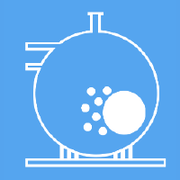
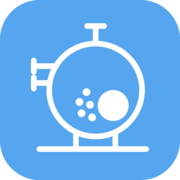
Uso en el celular: instalable, fotos desde la cámara y mejoras táctiles
- Manifest e íconos nuevos: se puede agregar a la pantalla de inicio y abre a pantalla completa.
- Campos de 16px en celular (Safari en iPhone ya no hace zoom al tocarlos).
- Botones y enlaces con tamaño de dedo; la ficha del cliente ya no se desborda de costado.
- "Sacar foto" en la ficha; las fotos se achican antes de subir y se suben de a una
  (Vercel no acepta más de 4.5 MB por pedido).
- Los textos largos crecen solos también en Safari.
- En desarrollo se puede entrar desde el celular por wifi (IPs locales habilitadas).

diff --git a/components/subir-archivos.tsx b/components/subir-archivos.tsx
@@ -1,41 +1,100 @@
 "use client";
 
-import { Upload } from "lucide-react";
-import { useActionState, useRef } from "react";
+import { Camera, Upload } from "lucide-react";
+import { useState, useTransition, type ChangeEvent } from "react";
 import type { EstadoFormulario } from "@/app/acciones";
+
+const LADO_MAXIMO = 2400;
+const LIMITE = 4 * 1024 * 1024;
+
+/**
+ * Las fotos del celular pesan 3–8 MB: se pasan a JPEG de hasta 2400 px de lado (quedan en ~0.5–1 MB,
+ * de sobra para ver una caldera). Si el navegador no puede leer la imagen, se sube el original.
+ */
+async function prepararArchivo(archivo: File): Promise<File> {
+  if (!/^image\/(jpeg|png|webp|heic|heif)$/.test(archivo.type) || archivo.size < 1.5 * 1024 * 1024) return archivo;
+  try {
+    const imagen = await createImageBitmap(archivo, { imageOrientation: "from-image" });
+    const escala = Math.min(1, LADO_MAXIMO / Math.max(imagen.width, imagen.height));
+    const lienzo = document.createElement("canvas");
+    lienzo.width = Math.round(imagen.width * escala);
+    lienzo.height = Math.round(imagen.height * escala);
+    lienzo.getContext("2d")?.drawImage(imagen, 0, 0, lienzo.width, lienzo.height);
+    imagen.close();
+    const blob = await new Promise<Blob | null>((listo) => lienzo.toBlob(listo, "image/jpeg", 0.85));
+    if (!blob || blob.size >= archivo.size) return archivo;
+    return new File([blob], `${archivo.name.replace(/\.[^.]+$/, "")}.jpg`, { type: "image/jpeg" });
+  } catch {
+    return archivo;
+  }
+}
 
 export function SubirArchivos({
   accion,
 }: {
   accion: (estado: EstadoFormulario, formData: FormData) => Promise<EstadoFormulario>;
 }) {
-  const formulario = useRef<HTMLFormElement>(null);
-  const [estado, enviar, enviando] = useActionState(async (anterior: EstadoFormulario, datos: FormData) => {
-    const resultado = await accion(anterior, datos);
-    if (!resultado?.error) formulario.current?.reset();
-    return resultado;
-  }, undefined);
+  const [subiendo, iniciar] = useTransition();
+  const [progreso, setProgreso] = useState<string | null>(null);
+  const [error, setError] = useState<string | null>(null);
+
+  function subir(evento: ChangeEvent<HTMLInputElement>) {
+    const archivos = Array.from(evento.target.files ?? []);
+    evento.target.value = "";
+    if (!archivos.length) return;
+    setError(null);
+    iniciar(async () => {
+      const errores: string[] = [];
+      // De a uno: Vercel no acepta más de 4.5 MB por pedido.
+      for (const [i, original] of archivos.entries()) {
+        setProgreso(archivos.length > 1 ? `Subiendo ${i + 1} de ${archivos.length}…` : "Subiendo…");
+        const archivo = await prepararArchivo(original);
+        if (archivo.size > LIMITE) {
+          errores.push(`“${original.name}” pesa más de 4 MB`);
+          continue;
+        }
+        const datos = new FormData();
+        datos.append("archivos", archivo);
+        try {
+          const resultado = await accion(undefined, datos);
+          if (resultado?.error) errores.push(resultado.error);
+        } catch {
+          errores.push(`No se pudo subir “${original.name}”. Revisá la conexión.`);
+        }
+      }
+      setProgreso(null);
+      setError(errores.length ? errores.join(" · ") : null);
+    });
+  }
 
   return (
-    <form ref={formulario} action={enviar} className="space-y-2">
-      <label className="btn-secundario cursor-pointer">
-        <Upload className="size-4" />
-        {enviando ? "Subiendo…" : "Subir archivos"}
-        <input
-          type="file"
-          name="archivos"
-          multiple
-          className="sr-only"
-          disabled={enviando}
-          onChange={(e) => e.currentTarget.form?.requestSubmit()}
-        />
-      </label>
-      <p className="text-xs text-apagado">PDF, fotos, planillas… hasta 4 MB cada uno.</p>
-      {estado?.error && (
+    <div className="space-y-2">
+      <div className="flex flex-wrap gap-2">
+        <label className={`btn-secundario cursor-pointer ${subiendo ? "pointer-events-none opacity-50" : ""}`}>
+          <Upload className="size-4" />
+          {progreso ?? "Subir archivos"}
+          <input type="file" multiple className="sr-only" disabled={subiendo} onChange={subir} />
+        </label>
+        {/* En el celular abre la cámara directo (para fotos de la instalación). */}
+        <label className={`btn-secundario cursor-pointer sm:hidden ${subiendo ? "pointer-events-none opacity-50" : ""}`}>
+          <Camera className="size-4" />
+          Sacar foto
+          <input
+            type="file"
+            accept="image/*"
+            capture="environment"
+            className="sr-only"
+            disabled={subiendo}
+            onChange={subir}
+          />
+        </label>
+      </div>
+      <p className="text-xs text-apagado">PDF, fotos, planillas… Las fotos se achican solas; el resto, hasta 4 MB.</p>
+      {error && (
         <p role="alert" className="text-sm text-peligro">
-          {estado.error}
+          {error}
         </p>
       )}
-    </form>
+    </div>
   );
 }

diff --git a/app/(app)/clientes/[id]/page.tsx b/app/(app)/clientes/[id]/page.tsx
@@ -49,7 +49,7 @@ export default async function PaginaCliente({ params, searchParams }: PageProps<
 
   return (
     <div className="space-y-6">
-      <Link href="/clientes" className="inline-flex items-center gap-1 text-sm text-apagado hover:text-tinta">
+      <Link href="/clientes" className="-my-2 inline-flex items-center gap-1 py-2 text-sm text-apagado hover:text-tinta">
         <ArrowLeft className="size-4" /> Clientes
       </Link>
 
@@ -65,8 +65,8 @@ export default async function PaginaCliente({ params, searchParams }: PageProps<
         </Link>
       </div>
 
-      <div className="grid gap-6 lg:grid-cols-[1fr_320px]">
-        <div className="space-y-6">
+      <div className="grid grid-cols-1 gap-6 lg:grid-cols-[minmax(0,1fr)_320px]">
+        <div className="min-w-0 space-y-6">
           <section className="tarjeta p-4 sm:p-5">
             <h2 className="mb-3 text-sm font-semibold">Nuevo documento</h2>
             <div className="grid gap-2 sm:grid-cols-3">
@@ -86,7 +86,7 @@ export default async function PaginaCliente({ params, searchParams }: PageProps<
                 href={`/clientes/${id}`}
                 role="tab"
                 aria-selected={!tipoFiltro}
-                className={`rounded-full px-3 py-1 text-sm ${!tipoFiltro ? "bg-tinta text-white" : "bg-white text-apagado ring-1 ring-borde hover:text-tinta"}`}
+                className={`rounded-full px-3 py-1.5 text-sm ${!tipoFiltro ? "bg-tinta text-white" : "bg-white text-apagado ring-1 ring-borde hover:text-tinta"}`}
               >
                 Todos ({todos.length})
               </Link>
@@ -96,7 +96,7 @@ export default async function PaginaCliente({ params, searchParams }: PageProps<
                   href={`/clientes/${id}?tipo=${t}`}
                   role="tab"
                   aria-selected={tipoFiltro === t}
-                  className={`rounded-full px-3 py-1 text-sm ${tipoFiltro === t ? "bg-tinta text-white" : "bg-white text-apagado ring-1 ring-borde hover:text-tinta"}`}
+                  className={`rounded-full px-3 py-1.5 text-sm ${tipoFiltro === t ? "bg-tinta text-white" : "bg-white text-apagado ring-1 ring-borde hover:text-tinta"}`}
                 >
                   {NOMBRE_TIPO_PLURAL[t]} ({cuenta(t)})
                 </Link>
@@ -181,14 +181,14 @@ export default async function PaginaCliente({ params, searchParams }: PageProps<
               <Paperclip className="size-4" /> Archivos
             </h2>
             {sueltos.length > 0 && (
-              <ul className="mb-4 space-y-2">
+              <ul className="mb-4 space-y-0.5">
                 {sueltos.map((a) => (
                   <li key={a.id} className="flex items-center gap-2 text-sm">
-                    <a href={`/api/archivos/${a.id}`} target="_blank" className="min-w-0 flex-1 truncate text-marca hover:underline">
+                    <a href={`/api/archivos/${a.id}`} target="_blank" className="min-w-0 flex-1 truncate py-2 text-marca hover:underline">
                       {a.nombre}
                     </a>
                     <span className="shrink-0 text-xs text-apagado">{tamanoLegible(a.tamano)}</span>
-                    <BotonConfirmar accion={eliminarArchivo.bind(null, a.id)} className="btn-fantasma px-1.5 text-xs" pregunta="¿Borrar?" confirmar="Borrar">
+                    <BotonConfirmar accion={eliminarArchivo.bind(null, a.id)} className="btn-fantasma px-3 sm:px-1.5 sm:text-xs" pregunta="¿Borrar?" confirmar="Borrar">
                       ✕<span className="sr-only">Borrar {a.nombre}</span>
                     </BotonConfirmar>
                   </li>

diff --git a/components/editor/campos.tsx b/components/editor/campos.tsx
@@ -1,7 +1,7 @@
 "use client";
 
 import { ArrowDown, ArrowUp, X } from "lucide-react";
-import { useId, useState, type ReactNode, type TextareaHTMLAttributes } from "react";
+import { useId, useLayoutEffect, useRef, useState, type ReactNode, type TextareaHTMLAttributes } from "react";
 
 export function Campo({
   rotulo,
@@ -26,9 +26,16 @@ export function Campo({
   );
 }
 
-/** Textarea que crece con el contenido. */
+/** Textarea que crece con el contenido (con CSS donde se puede; en Safari, ajustando el alto a mano). */
 export function AreaTexto({ className = "", ...props }: TextareaHTMLAttributes<HTMLTextAreaElement>) {
-  return <textarea rows={2} {...props} className={`campo field-sizing-content min-h-16 resize-y ${className}`} />;
+  const ref = useRef<HTMLTextAreaElement>(null);
+  useLayoutEffect(() => {
+    const area = ref.current;
+    if (!area || CSS.supports("field-sizing", "content")) return;
+    area.style.height = "auto";
+    area.style.height = `${area.scrollHeight + 2}px`;
+  }, [props.value]);
+  return <textarea ref={ref} rows={2} {...props} className={`campo field-sizing-content min-h-16 resize-y ${className}`} />;
 }
 
 const numero = new Intl.NumberFormat("es-AR", { maximumFractionDigits: 2 });
@@ -98,34 +105,34 @@ export function ControlesFila({
   etiqueta: string;
 }) {
   return (
-    <div className="flex shrink-0 flex-col gap-0.5">
+    <div className="-mr-1 flex shrink-0 flex-col sm:mr-0 sm:gap-0.5">
       <button
         type="button"
-        className="rounded p-1 text-apagado hover:bg-fondo hover:text-tinta disabled:opacity-30"
+        className="rounded-md p-2 text-apagado hover:bg-fondo hover:text-tinta disabled:opacity-30 sm:p-1"
         disabled={indice === 0}
         onClick={() => onMover(indice, indice - 1)}
         title="Subir"
       >
-        <ArrowUp className="size-3.5" />
+        <ArrowUp className="size-5 sm:size-3.5" />
         <span className="sr-only">Subir {etiqueta}</span>
       </button>
       <button
         type="button"
-        className="rounded p-1 text-apagado hover:bg-fondo hover:text-tinta disabled:opacity-30"
+        className="rounded-md p-2 text-apagado hover:bg-fondo hover:text-tinta disabled:opacity-30 sm:p-1"
         disabled={indice === total - 1}
         onClick={() => onMover(indice, indice + 1)}
         title="Bajar"
       >
-        <ArrowDown className="size-3.5" />
+        <ArrowDown className="size-5 sm:size-3.5" />
         <span className="sr-only">Bajar {etiqueta}</span>
       </button>
       <button
         type="button"
-        className="rounded p-1 text-apagado hover:bg-red-50 hover:text-peligro"
+        className="rounded-md p-2 text-apagado hover:bg-red-50 hover:text-peligro sm:p-1"
         onClick={() => onBorrar(indice)}
         title="Quitar"
       >
-        <X className="size-3.5" />
+        <X className="size-5 sm:size-3.5" />
         <span className="sr-only">Quitar {etiqueta}</span>
       </button>
     </div>

diff --git a/app/(app)/documentos/[id]/page.tsx b/app/(app)/documentos/[id]/page.tsx
@@ -28,7 +28,7 @@ export default async function PaginaDocumento({ params }: PageProps<"/documentos
       <div className="space-y-4">
         <div className="flex flex-wrap items-end justify-between gap-3">
           <div>
-            <Link href={`/clientes/${cliente.id}`} className="text-sm text-apagado hover:text-tinta">
+            <Link href={`/clientes/${cliente.id}`} className="-my-2 inline-block py-2 text-sm text-apagado hover:text-tinta">
               ← {cliente.nombre}
             </Link>
             <h1 className="text-xl font-semibold tracking-tight sm:text-2xl">
@@ -62,7 +62,7 @@ export default async function PaginaDocumento({ params }: PageProps<"/documentos
           <ul className="flex flex-wrap gap-3 text-sm">
             {adjuntos.map((a) => (
               <li key={a.id}>
-                <a href={`/api/archivos/${a.id}?descargar`} className="inline-flex items-center gap-1 text-marca hover:underline">
+                <a href={`/api/archivos/${a.id}?descargar`} className="inline-flex items-center gap-1 py-2 text-marca hover:underline">
                   <FileText className="size-4" /> {a.nombre}
                 </a>
               </li>

diff --git a/components/editor/editor-documento.tsx b/components/editor/editor-documento.tsx
@@ -172,7 +172,7 @@ export function EditorDocumento({
     <div className="space-y-4">
       <div className="flex flex-wrap items-center justify-between gap-3">
         <div className="min-w-0">
-          <Link href={`/clientes/${cliente.id}`} className="text-sm text-apagado hover:text-tinta">
+          <Link href={`/clientes/${cliente.id}`} className="-my-2 inline-block py-2 text-sm text-apagado hover:text-tinta">
             ← {cliente.nombre}
           </Link>
           <h1 className="text-xl font-semibold tracking-tight sm:text-2xl">
@@ -226,7 +226,7 @@ export function EditorDocumento({
         ))}
       </div>
 
-      <div className="grid gap-6 lg:grid-cols-[minmax(0,1fr)_minmax(0,1fr)]">
+      <div className="grid grid-cols-1 gap-6 lg:grid-cols-[minmax(0,1fr)_minmax(0,1fr)]">
         <div className={`space-y-4 ${pestana === "editar" ? "" : "hidden lg:block"}`}>
           <section className="tarjeta grid gap-3 p-4 sm:grid-cols-2 sm:p-5">
             <Campo rotulo="Número">

diff --git a/app/(app)/page.tsx b/app/(app)/page.tsx
@@ -16,7 +16,7 @@ export default async function PaginaInicio() {
 
   return (
     <div className="space-y-8">
-      <div className="grid gap-4 lg:grid-cols-2">
+      <div className="grid grid-cols-1 gap-4 lg:grid-cols-2">
         <form action={crearDocumentoRapido} className="tarjeta space-y-3 p-5">
           <h2 className="font-semibold">Nuevo documento</h2>
           <div className="grid gap-2 sm:grid-cols-[1fr_auto]">
@@ -37,7 +37,7 @@ export default async function PaginaInicio() {
             </select>
           </div>
           <div className="flex items-center justify-between gap-2">
-            <Link href="/clientes/nuevo" className="text-sm text-marca hover:underline">
+            <Link href="/clientes/nuevo" className="-my-2 py-2 text-sm text-marca hover:underline">
               + Cliente nuevo
             </Link>
             <button type="submit" className="btn-primario">

diff --git a/app/manifest.ts b/app/manifest.ts
@@ -1,0 +1,22 @@
+import type { MetadataRoute } from "next";
+
+// Permite "Agregar a la pantalla de inicio" en el celular y abrirla como una app (sin barra del navegador).
+export default function manifest(): MetadataRoute.Manifest {
+  return {
+    name: "Leo Calderas",
+    short_name: "Leo Calderas",
+    description: "Clientes, presupuestos, listas de materiales e informes.",
+    lang: "es-AR",
+    start_url: "/",
+    scope: "/",
+    display: "standalone",
+    orientation: "portrait",
+    background_color: "#f5f7fa",
+    theme_color: "#2f74b7",
+    icons: [
+      { src: "/icons/icon-192.png", sizes: "192x192", type: "image/png", purpose: "any" },
+      { src: "/icons/icon-512.png", sizes: "512x512", type: "image/png", purpose: "any" },
+      { src: "/icons/icon-maskable-512.png", sizes: "512x512", type: "image/png", purpose: "maskable" },
+    ],
+  };
+}

diff --git a/components/editor/secciones.tsx b/components/editor/secciones.tsx
@@ -137,7 +137,7 @@ export function SeccionPresupuesto({
               />
               <button
                 type="button"
-                className="btn-fantasma px-2"
+                className="btn-fantasma px-3 sm:px-2"
                 onClick={() => cambiar({ condicionesPago: contenido.condicionesPago.filter((_, j) => j !== i) })}
                 title="Quitar"
               >
@@ -183,7 +183,7 @@ function TextosFrecuentes({
           <Search className="pointer-events-none absolute top-1/2 left-2.5 size-4 -translate-y-1/2 text-apagado" />
           <input
             type="search"
-            className="campo py-1.5 pl-8 text-sm"
+            className="campo py-1.5 pl-8 sm:text-sm"
             placeholder="Filtrar…"
             value={filtro}
             onChange={(e) => setFiltro(e.target.value)}

diff --git a/lib/auth.ts b/lib/auth.ts
@@ -3,6 +3,7 @@ import { betterAuth } from "better-auth";
 import { drizzleAdapter } from "better-auth/adapters/drizzle";
 import { nextCookies } from "better-auth/next-js";
 import { db, schema } from "./db";
+import { ipsLocales } from "./red-local";
 
 /**
  * URL pública de la app. En Vercel no hace falta configurarla: se toma el dominio de producción
@@ -19,6 +20,11 @@ function urlBase() {
 
 export const auth = betterAuth({
   baseURL: urlBase(),
+  // En desarrollo también se puede entrar desde el celular por wifi, con la IP de la PC.
+  trustedOrigins:
+    process.env.NODE_ENV === "development"
+      ? ipsLocales().map((ip) => `http://${ip}:${process.env.PORT ?? 3000}`)
+      : [],
   database: drizzleAdapter(db, { provider: "pg", schema }),
   emailAndPassword: {
     enabled: true,

diff --git a/app/layout.tsx b/app/layout.tsx
@@ -7,6 +7,10 @@ const geist = Geist({ variable: "--font-geist-sans", subsets: ["latin"] });
 export const metadata: Metadata = {
   title: { default: "Leo Calderas", template: "%s · Leo Calderas" },
   description: "Clientes, presupuestos, listas de materiales e informes de Leo Calderas.",
+  applicationName: "Leo Calderas",
+  // Instalada en el iPhone ("Agregar a inicio") abre a pantalla completa, como una app.
+  appleWebApp: { capable: true, title: "Leo Calderas", statusBarStyle: "default" },
+  formatDetection: { telephone: false },
 };
 
 export const viewport: Viewport = { themeColor: "#2f74b7" };

diff --git a/app/globals.css b/app/globals.css
@@ -43,7 +43,7 @@
 }
 
 @utility campo {
-  @apply block w-full rounded-lg border border-borde bg-white px-3 py-2 text-[15px] text-tinta placeholder:text-slate-400 focus:border-marca focus:ring-2 focus:ring-marca/20 focus:outline-none;
+  @apply block w-full rounded-lg border border-borde bg-white px-3 py-2 text-base text-tinta sm:text-[15px] placeholder:text-slate-400 focus:border-marca focus:ring-2 focus:ring-marca/20 focus:outline-none;
 }
 
 @utility rotulo {

diff --git a/next.config.ts b/next.config.ts
@@ -1,6 +1,9 @@
 import type { NextConfig } from "next";
+import { ipsLocales } from "./lib/red-local";
 
 const nextConfig: NextConfig = {
+  // En desarrollo, permite abrir la app desde el celular con la IP de la PC (ej. http://192.168.0.18:3000).
+  allowedDevOrigins: ipsLocales(),
   experimental: {
     // Subida de archivos a la ficha del cliente (Vercel corta en 4.5 MB por request).
     serverActions: { bodySizeLimit: "4mb" },
